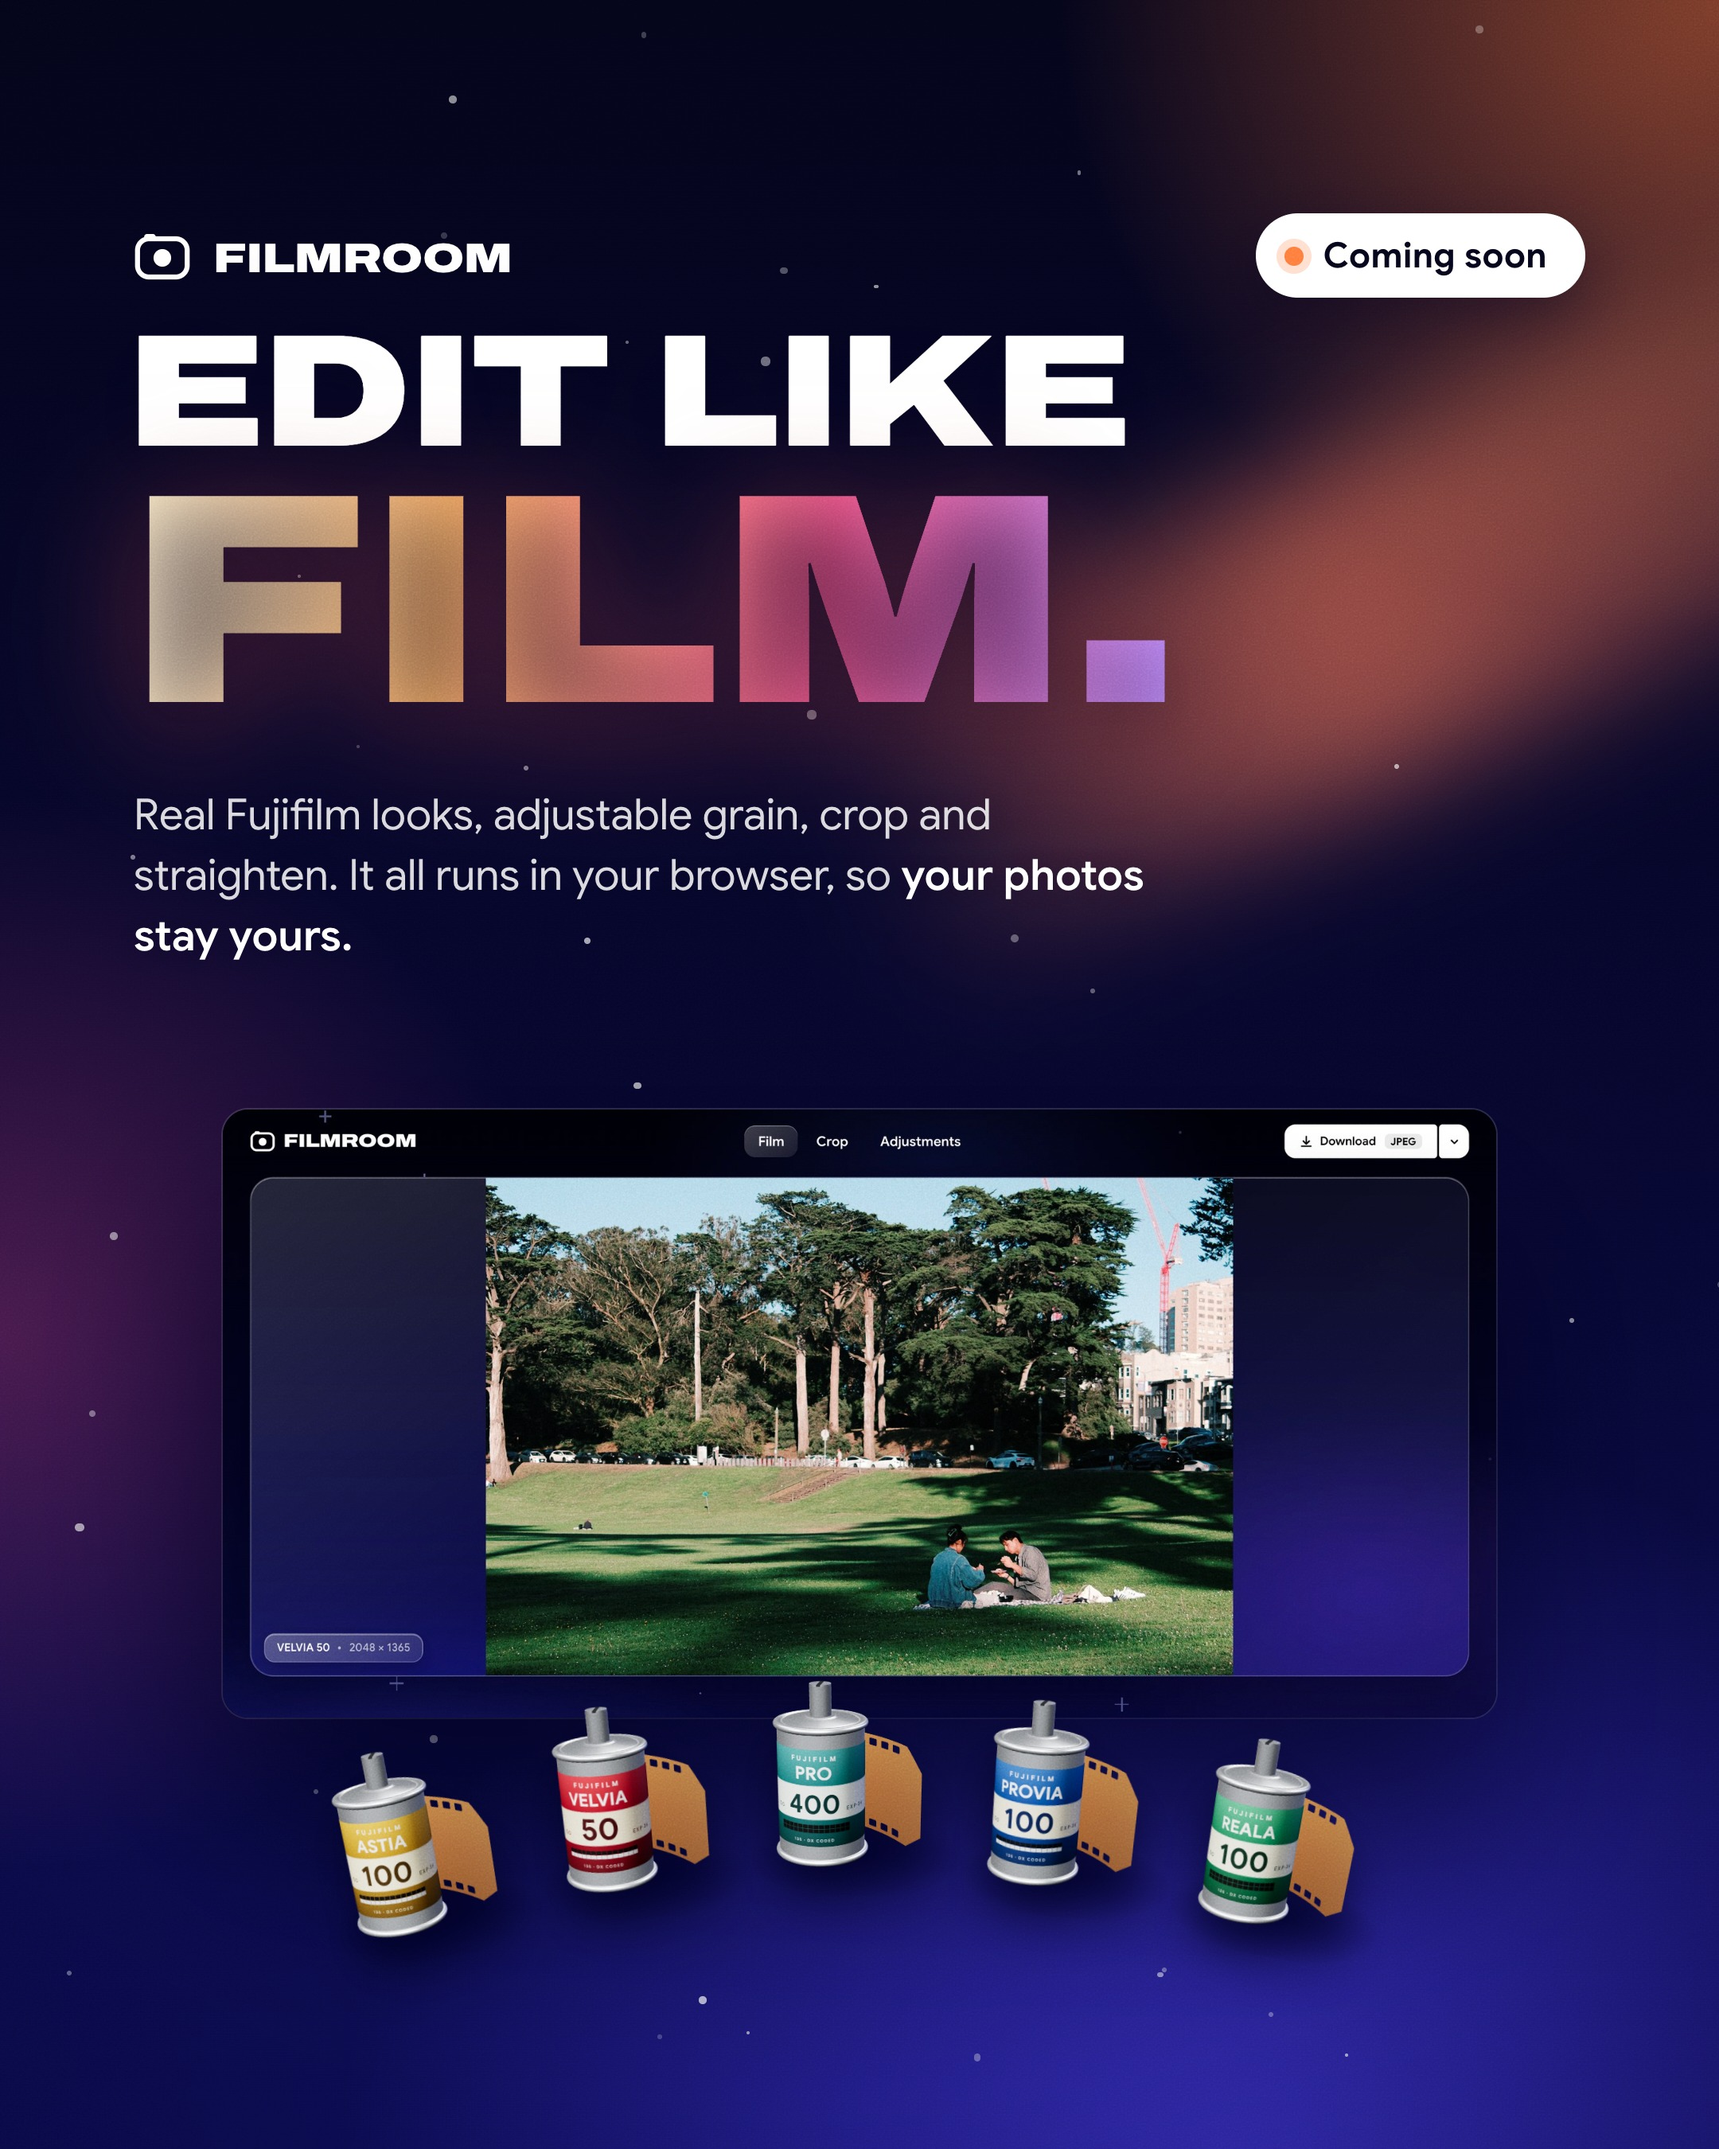
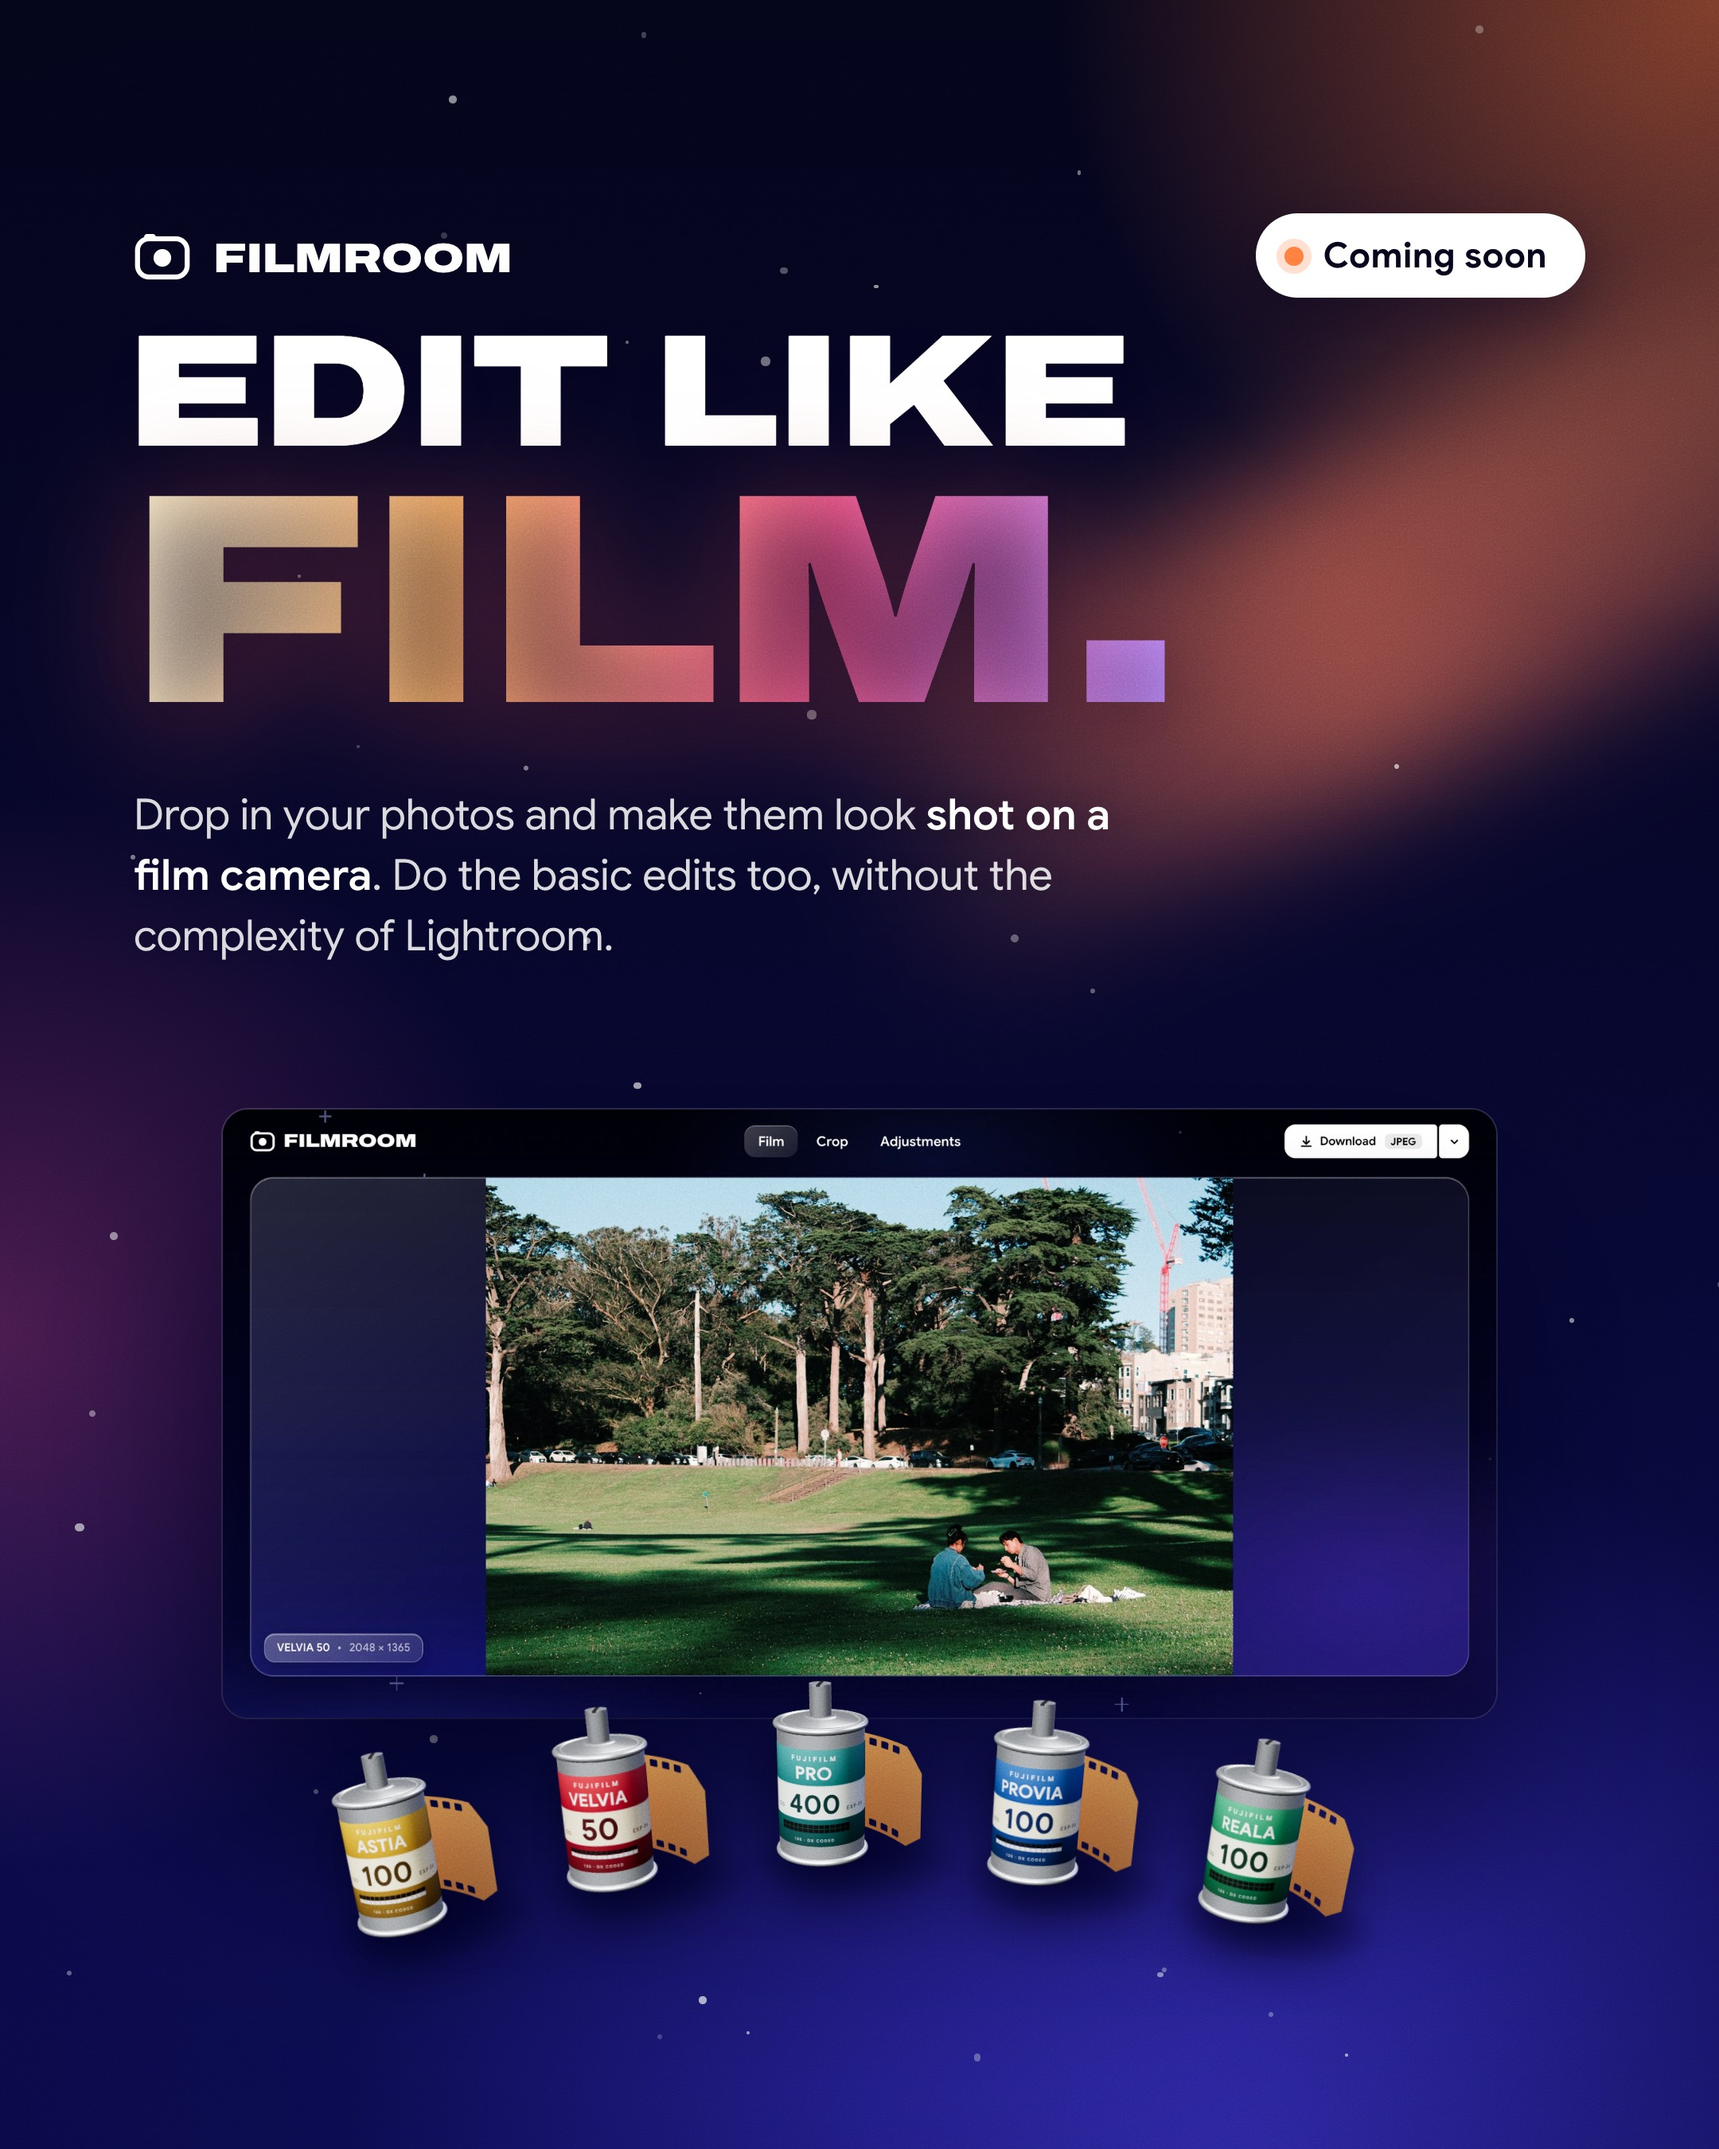
Poster: subtext explains the value (film look, basic edits, no Lightroom complexity)

Changed region(s): [[0.062, 0.3733, 0.6514, 0.4667]]

diff --git a/poster/index.html b/poster/index.html
@@ -71,7 +71,7 @@
 
   <div class="brand"><svg viewBox="0 0 30 30"><rect x="2" y="5" width="26" height="20" rx="6" fill="none" stroke="#fff" stroke-width="2.6"/><circle cx="15" cy="15" r="4.6" fill="#fff"/><rect x="5.5" y="2.5" width="6" height="3.5" rx="1.5" fill="#fff"/></svg>Filmroom</div>
   <h1><span class="l1">Edit like</span><span class="l2">film.</span></h1>
-  <p class="sub">Real Fujifilm looks, adjustable grain, crop and straighten. It all runs in your browser, so <b>your photos stay yours.</b></p>
+  <p class="sub">Drop in your photos and make them look <b>shot on a film camera</b>. Do the basic edits too, without the complexity of Lightroom.</p>
   <div class="pill"><i></i>Coming soon</div>
 
   <div class="appwin"><img src="art/app.jpg" alt=""></div>
